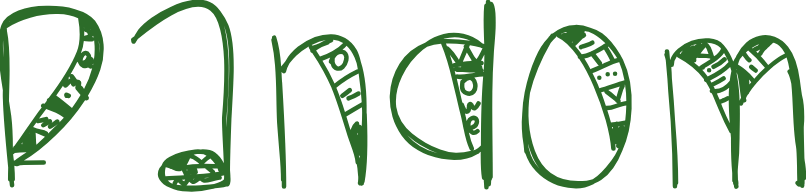
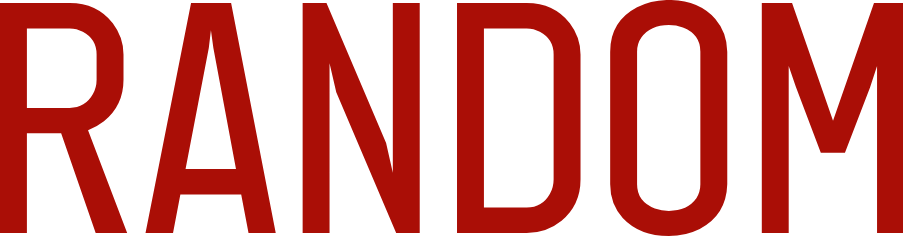
Animazione bottoni, ancora da finire

diff --git a/game_menu.css b/game_menu.css
@@ -16,33 +16,20 @@
     text-align: center;
     line-height: 100px;
     transition-duration: 0.4s;
-    /*list-style: none;
-    width: 250px;
-    height: 48px;
-    line-height: 48px;
-    text-align: center;
-    position: relative; 
-    left: calc(50% - 125px);
-    border: 1px solid red;
-    background-color: rgb(255, 255, 255);
-    font-size: 30px;
-    text-shadow: black 2px 2px 2px;
-    cursor: pointer;
-
-    box-shadow: inset 0 0 20px forestgreen;
-    outline: 2px solid;
-    outline-color: blue;
-
-    top: 20px;
-    margin-top: 10px;
-    margin-bottom: 10px;*/
+    font-family: "Lucida Console", "Courier New", monospace;
+    color:rgb(43, 59, 76);
+    font-size: 3rem;
+    font-weight: 500;
+    
 }
 
-button:hover{
-    box-shadow: inset 0 0 10px red ;
-    outline-color: black;
-    outline-offset: 2.5px;
-    text-shadow: green 1px 1px 2px;
+.button:hover{
+    width: 320px;
+    left: calc(50% - 160px);
+    height: 90px;
+    top: 85px;
+    text-shadow: 4px 4px 5px rgb(56, 61, 20);
+    
 }
 
 .button--first{
@@ -76,6 +63,11 @@ button:hover{
     top: 20px;
     left: 10px;
     cursor: pointer;
+    transition-duration: 0.4s;
+}
+#back:hover{
+    width: 90px;
+    height: 70px;
 }
 
 #home{
@@ -87,17 +79,47 @@ button:hover{
     top: 130px;
     left: 335px;
     cursor: pointer;
+    transition-duration: 0.4s;
+}
+#home:hover{
+    width: 90px;
+    height: 90px;
+    top: 125px;
+    left: 330px;
 }
 
 #retry{
     background-image: url(retry_button.png);
     background-size: 100% 100%;
-    width: 80px;
-    height: 80px;
+    width: 73px;
+    height: 73px;
     position: absolute;
-    top: 130px;
+    top: 137px;
     left: 435px;
     cursor: pointer;
+    transition-duration: 0.4s;
+}
+#retry:hover{
+    width: 80px;
+    height: 80px;
+    top: 134px;
+    left: 432px;
+}
+
+#option{
+    background-image: url(option.png);
+    background-size: 100% 100%;
+    width: 50px;
+    height: 50px;
+    position: absolute;
+    top: 20px;
+    right: 25px;
+    cursor: pointer;
+    transition-duration: 0.4s;
+}
+#option:hover{
+    width: 60px;
+    height: 60px;
 }
 
 #plant{
@@ -111,16 +133,6 @@ button:hover{
     cursor: pointer;
 }
 
-#option{
-    background-image: url(option.png);
-    background-size: 100% 100%;
-    width: 50px;
-    height: 50px;
-    position: absolute;
-    top: 20px;
-    right: 25px;
-    cursor: pointer;
-}
 
 @keyframes scrolling {
     0% {width:0px;}
@@ -139,8 +151,8 @@ button:hover{
 @keyframes scrollButtonRetry {
     0% {left:0px; width:0px; height: 0px;}
     25% {left:0px; width:0px; height: 0px;}
-    75% {left:435px; width:80px; height: 80px;}
-    100% {left:435px; width:80px; height: 80px;}
+    75% {left:435px; width:73px; height: 73px;}
+    100% {left:435px; width:73px; height: 73px;}
 }
 
 @keyframes scrollTitle {

diff --git a/index.html b/index.html
@@ -8,8 +8,7 @@
 		
 		<!-- MAIN MENU -->
 		<div id = "start-screen" class = "menu screen" style="display:block">
-			<!--<img src="title.png" alt="title">-->
-			<a href="https://www.fontspace.com/category/swatches"><img src="https://see.fontimg.com/api/renderfont4/OYRo/eyJyIjoiZnMiLCJoIjozNjIsInciOjIwMDAsImZzIjoxODEsImZnYyI6IiM4OTAzMDMiLCJiZ2MiOiIjRkZGRkZGIiwidCI6MX0/RmxhcHB5IFNpbmc/wild-growth.png" alt="Swatches fonts"></a>
+			<img src="title.png" alt="title">
 				<li class = "button button--play" onclick="toModeMenu()">Play</li>
 				<div id = "option" onclick="toOptionsMenu()"></div>
 		</div>
@@ -23,8 +22,8 @@
 				
 				</li>
 				<li 
-				class = "button button--random" onclick="toDiffMenu()">
-				<img src="random.png" alt="random" width="210" height="40" >
+				class = "button button--random" onclick="toDiffMenu()">Random
+				<!--<img src="random.png" alt="random" width="210" height="35" >-->
 				</li>
 				<div id = "back" onclick="toMainMenu()"></div>
 		</div>

diff --git a/styles.css b/styles.css
@@ -26,6 +26,7 @@ body {
   font-size: 100px;
   position: absolute; 
   right: 0px; 
+  
 }
 
 #game {
@@ -67,7 +68,10 @@ body {
   color: rgb(0, 0, 0);
   display: inline-block;
   font-size: 50px;
-  position: absolute;  
+  position: absolute;
+  font-family: "Lucida Console", "Courier New", monospace;
+  color:rgb(43, 59, 76);
+  font-weight: 500;
 }
 
 #character {
